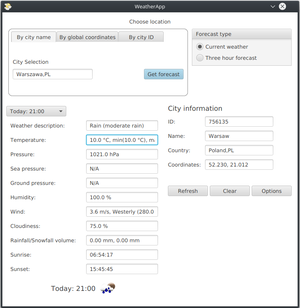
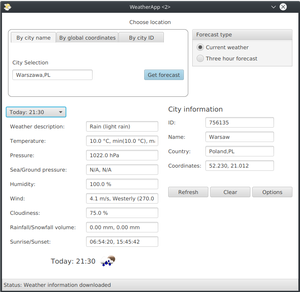
Reorganized weather display

Changed region(s): [[0.0, 0.0, 1.0, 1.0], [0.48, 0.2158, 0.63, 0.2774], [0.3, 0.7705, 0.48, 0.8322]]

diff --git a/src/main/java/gui/display/WeatherConditionDisplay.java b/src/main/java/gui/display/WeatherConditionDisplay.java
@@ -31,9 +31,7 @@ public class WeatherConditionDisplay extends VBox {
     @FXML
     private TextField pressureLabel;
     @FXML
-    private TextField seaPressureLabel;
-    @FXML
-    private TextField groundPressureLabel;
+    private TextField seaGroundPressureLabel;
     @FXML
     private TextField humidityLabel;
     @FXML
@@ -43,9 +41,7 @@ public class WeatherConditionDisplay extends VBox {
     @FXML
     private TextField rainfallSnowfallVolumeLabel;
     @FXML
-    private TextField sunriseLabel;
-    @FXML
-    private TextField sunsetLabel;
+    private TextField sunriseSunsetLabel;
 
     private WeatherIcons weatherIcons;
     private WeatherCondition weatherCondition;
@@ -84,15 +80,14 @@ public class WeatherConditionDisplay extends VBox {
                     weatherCondition.getTemperature() + ", min(" +
                     weatherCondition.getMinimalTemperature() + "), max(" + weatherCondition.getMaximalTemperature() + ")");
             pressureLabel.setText(weatherCondition.getPressure().toString());
-            seaPressureLabel.setText(weatherCondition.getSeaPressure().toString());
-            groundPressureLabel.setText(weatherCondition.getGroundPressure().toString());
+            seaGroundPressureLabel.setText(weatherCondition.getSeaPressure().toString() + ", " +
+                                           weatherCondition.getGroundPressure().toString());
             humidityLabel.setText(weatherCondition.getHumidity().toString());
             windLabel.setText(weatherCondition.getWind().toString());
             cloudinessLabel.setText(weatherCondition.getCloudiness().toString());
             rainfallSnowfallVolumeLabel.setText(weatherCondition.getRainfallVolume() + ", " +
                                         weatherCondition.getSnowfallVolume());
-            sunriseLabel.setText(weatherCondition.getSunrise().toString());
-            sunsetLabel.setText(weatherCondition.getSunset().toString());
+            sunriseSunsetLabel.setText(weatherCondition.getSunrise() + ", " + weatherCondition.getSunset());
         }
     }
 
@@ -102,14 +97,12 @@ public class WeatherConditionDisplay extends VBox {
         descriptionLabel.clear();
         temperatureLabel.clear();
         pressureLabel.clear();
-        seaPressureLabel.clear();
-        groundPressureLabel.clear();
+        seaGroundPressureLabel.clear();
         humidityLabel.clear();
         windLabel.clear();
         cloudinessLabel.clear();
         rainfallSnowfallVolumeLabel.clear();
-        sunriseLabel.clear();
-        sunsetLabel.clear();
+        sunriseSunsetLabel.clear();
     }
 
     public String getDateDescription() {
